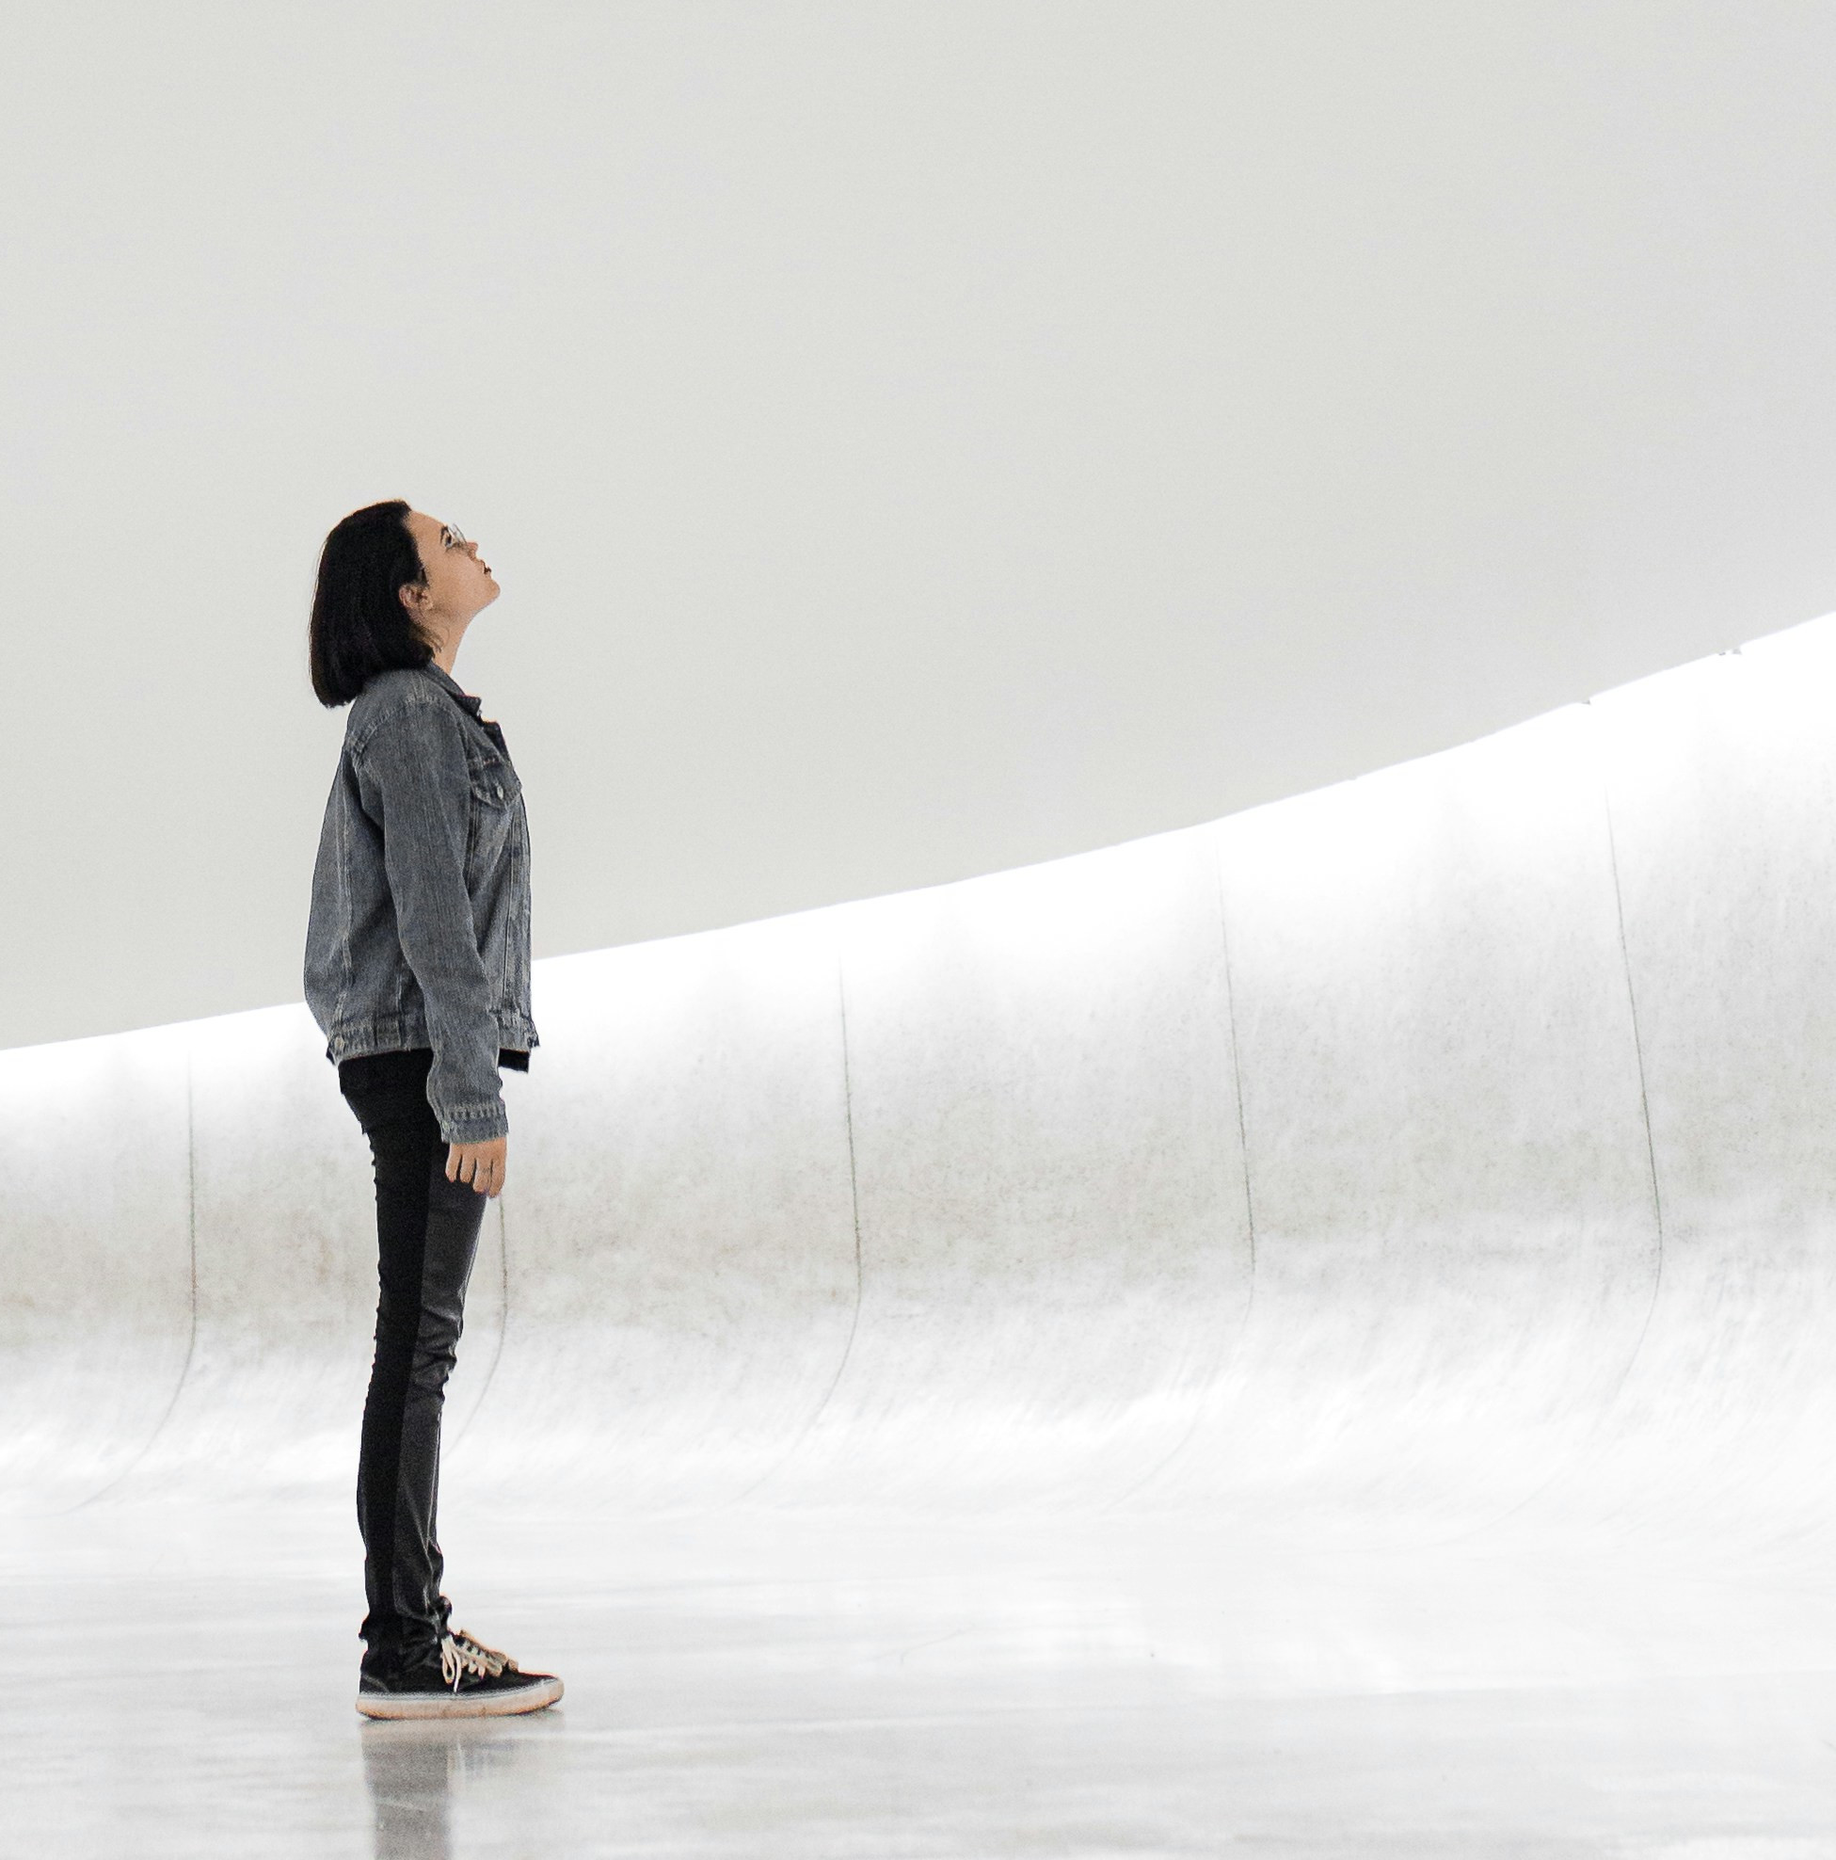
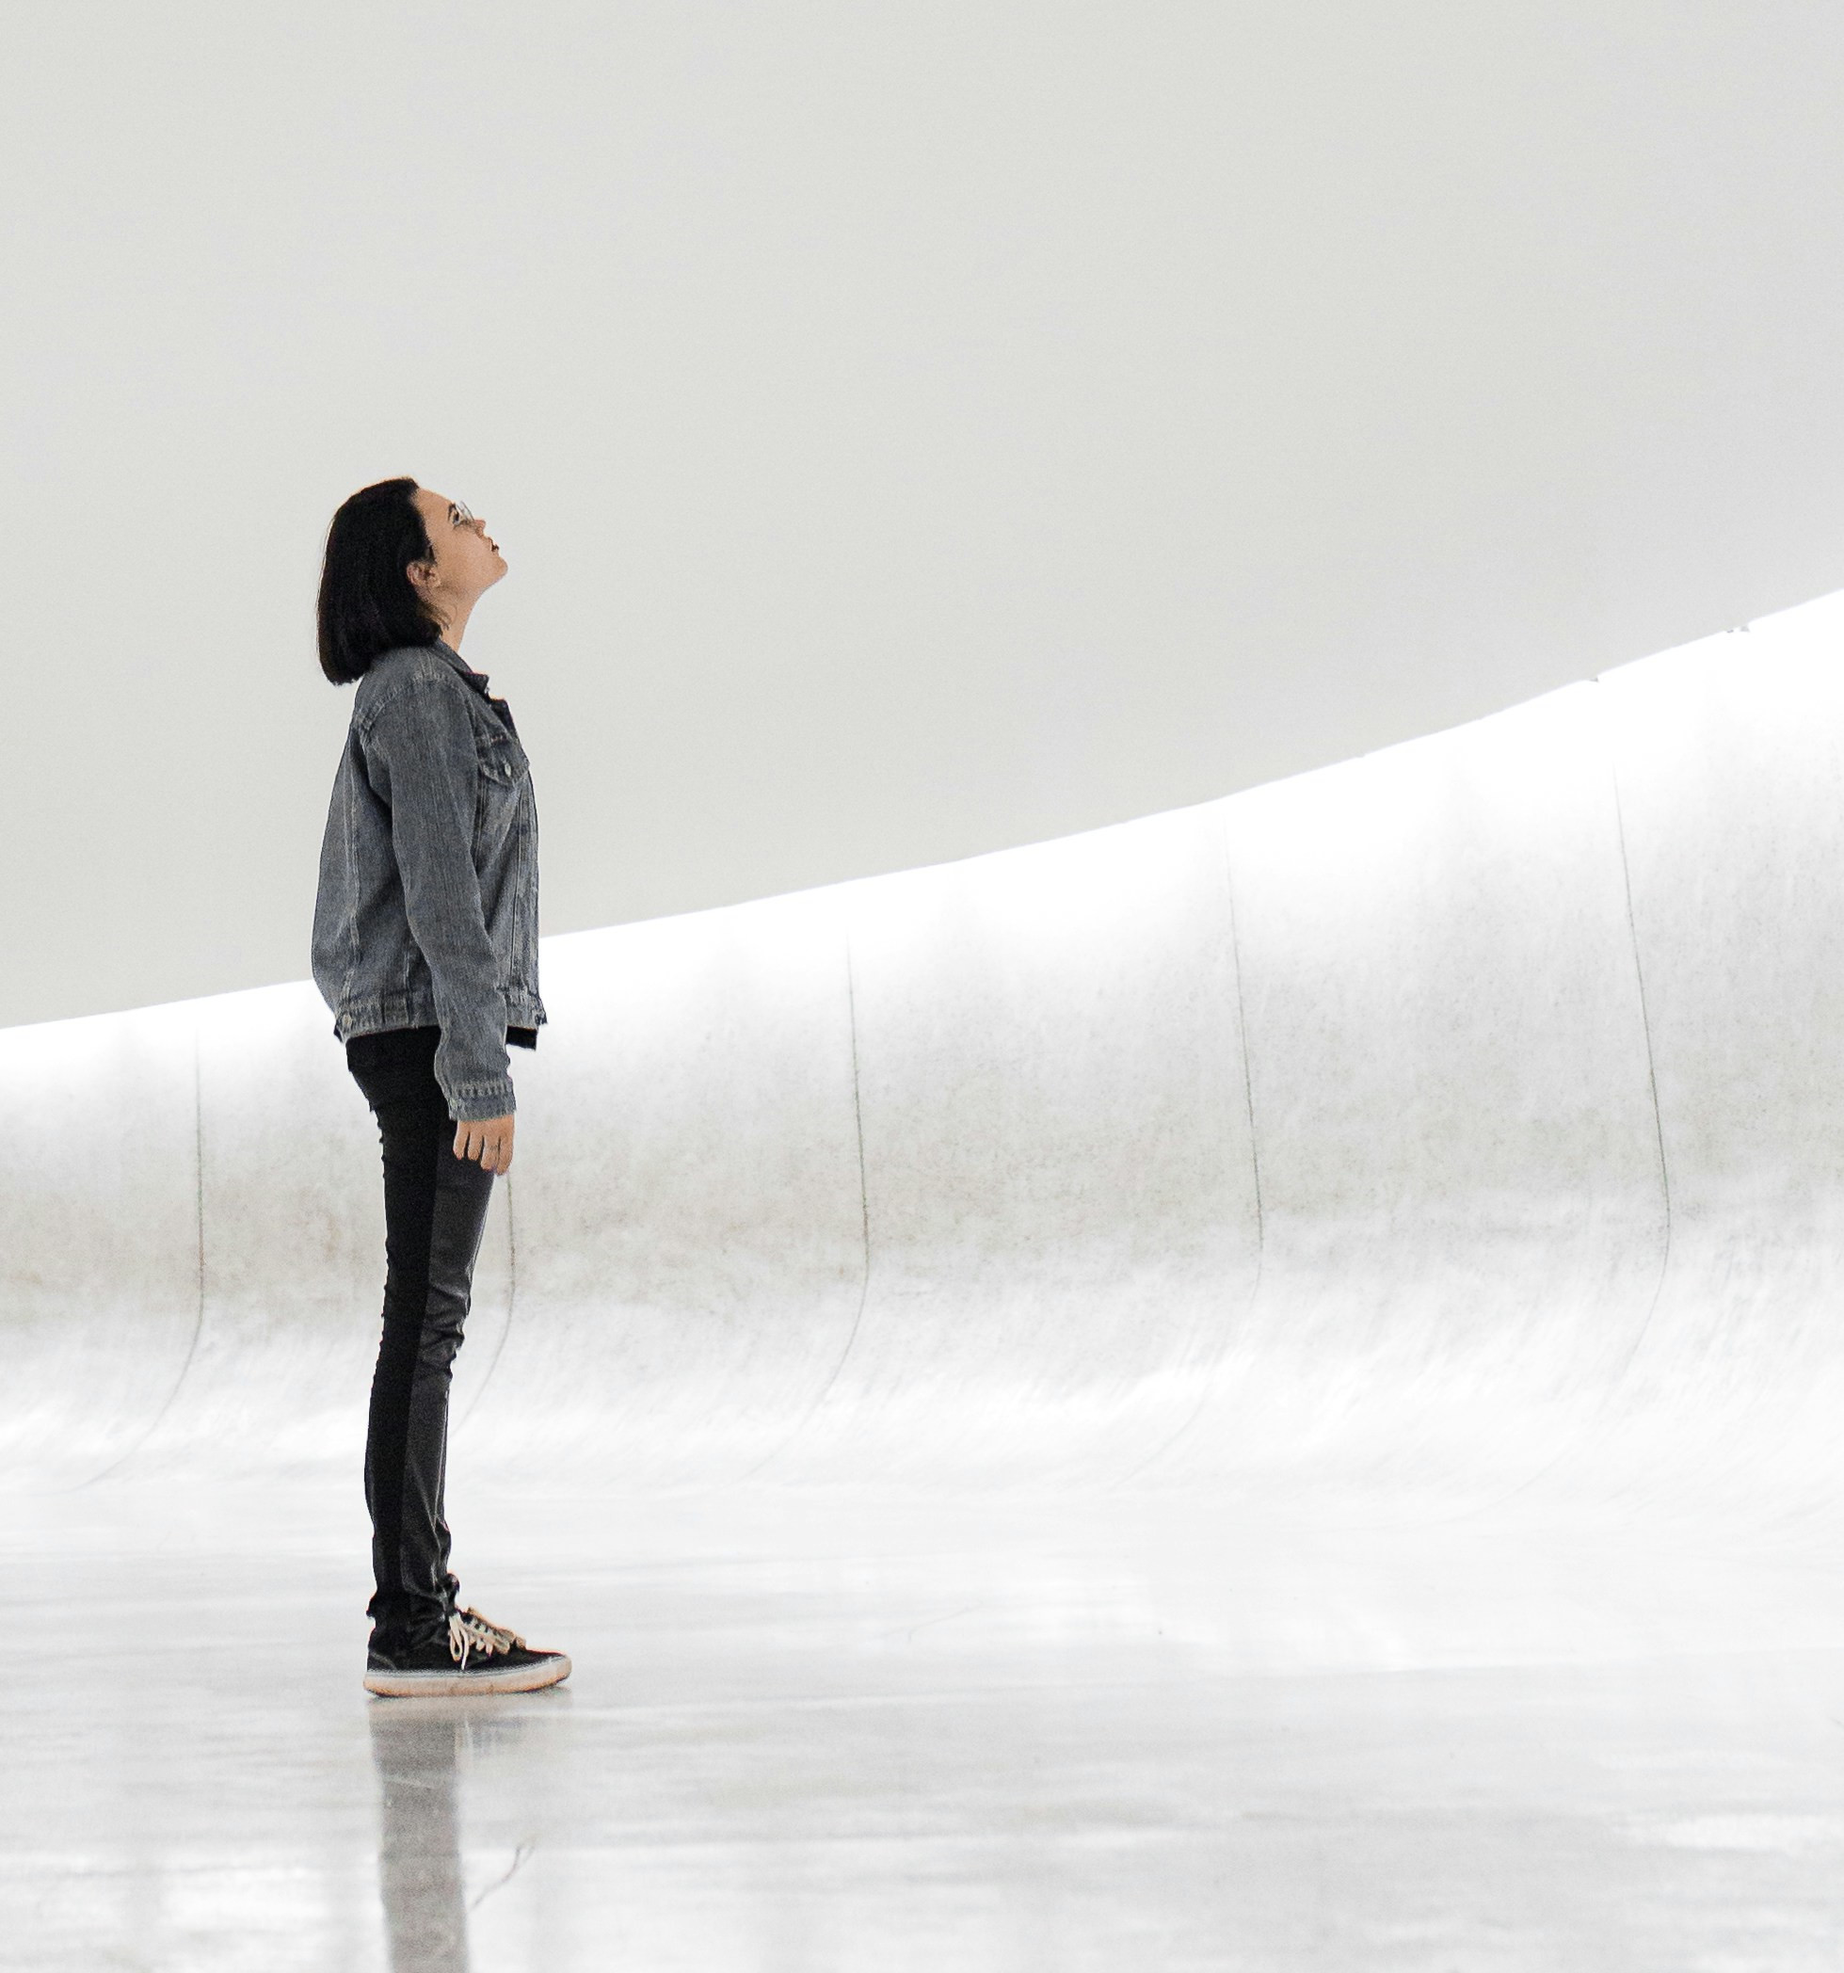
changed height hero-bg

diff --git a/css/hero.css b/css/hero.css
@@ -4,12 +4,11 @@
   overflow: hidden;  
   margin: 0;
   padding: 0;
+  
 }
-
 #hero .hero-bg {
   display: block;
   width: 100%;
-  height: auto;
   padding: 0;
 }
 
